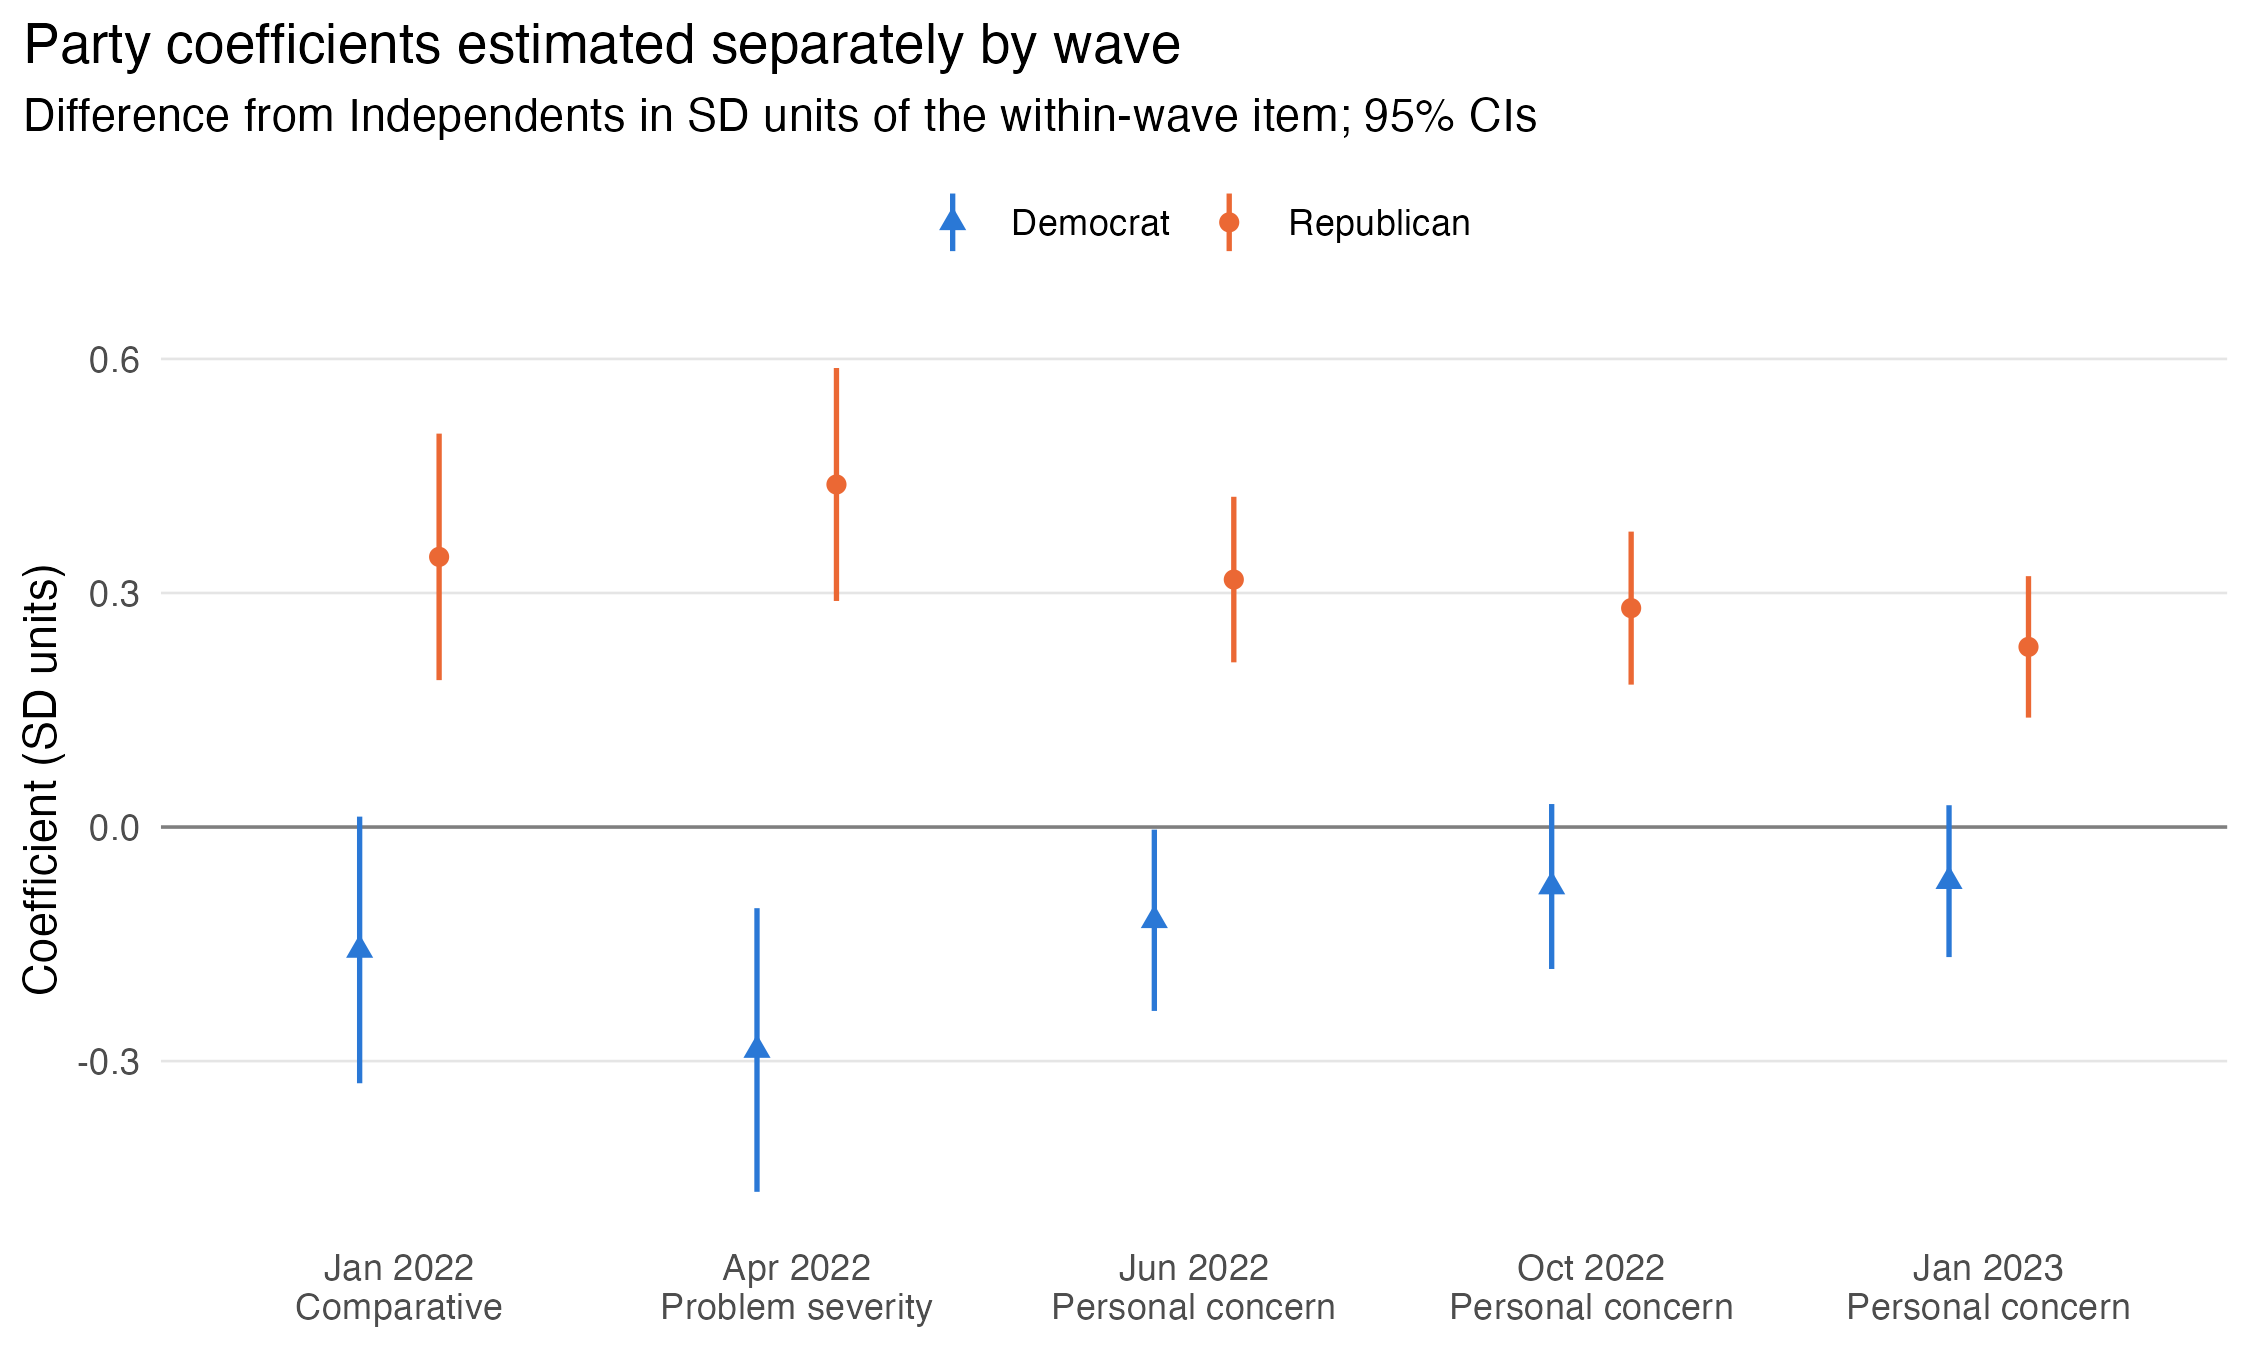
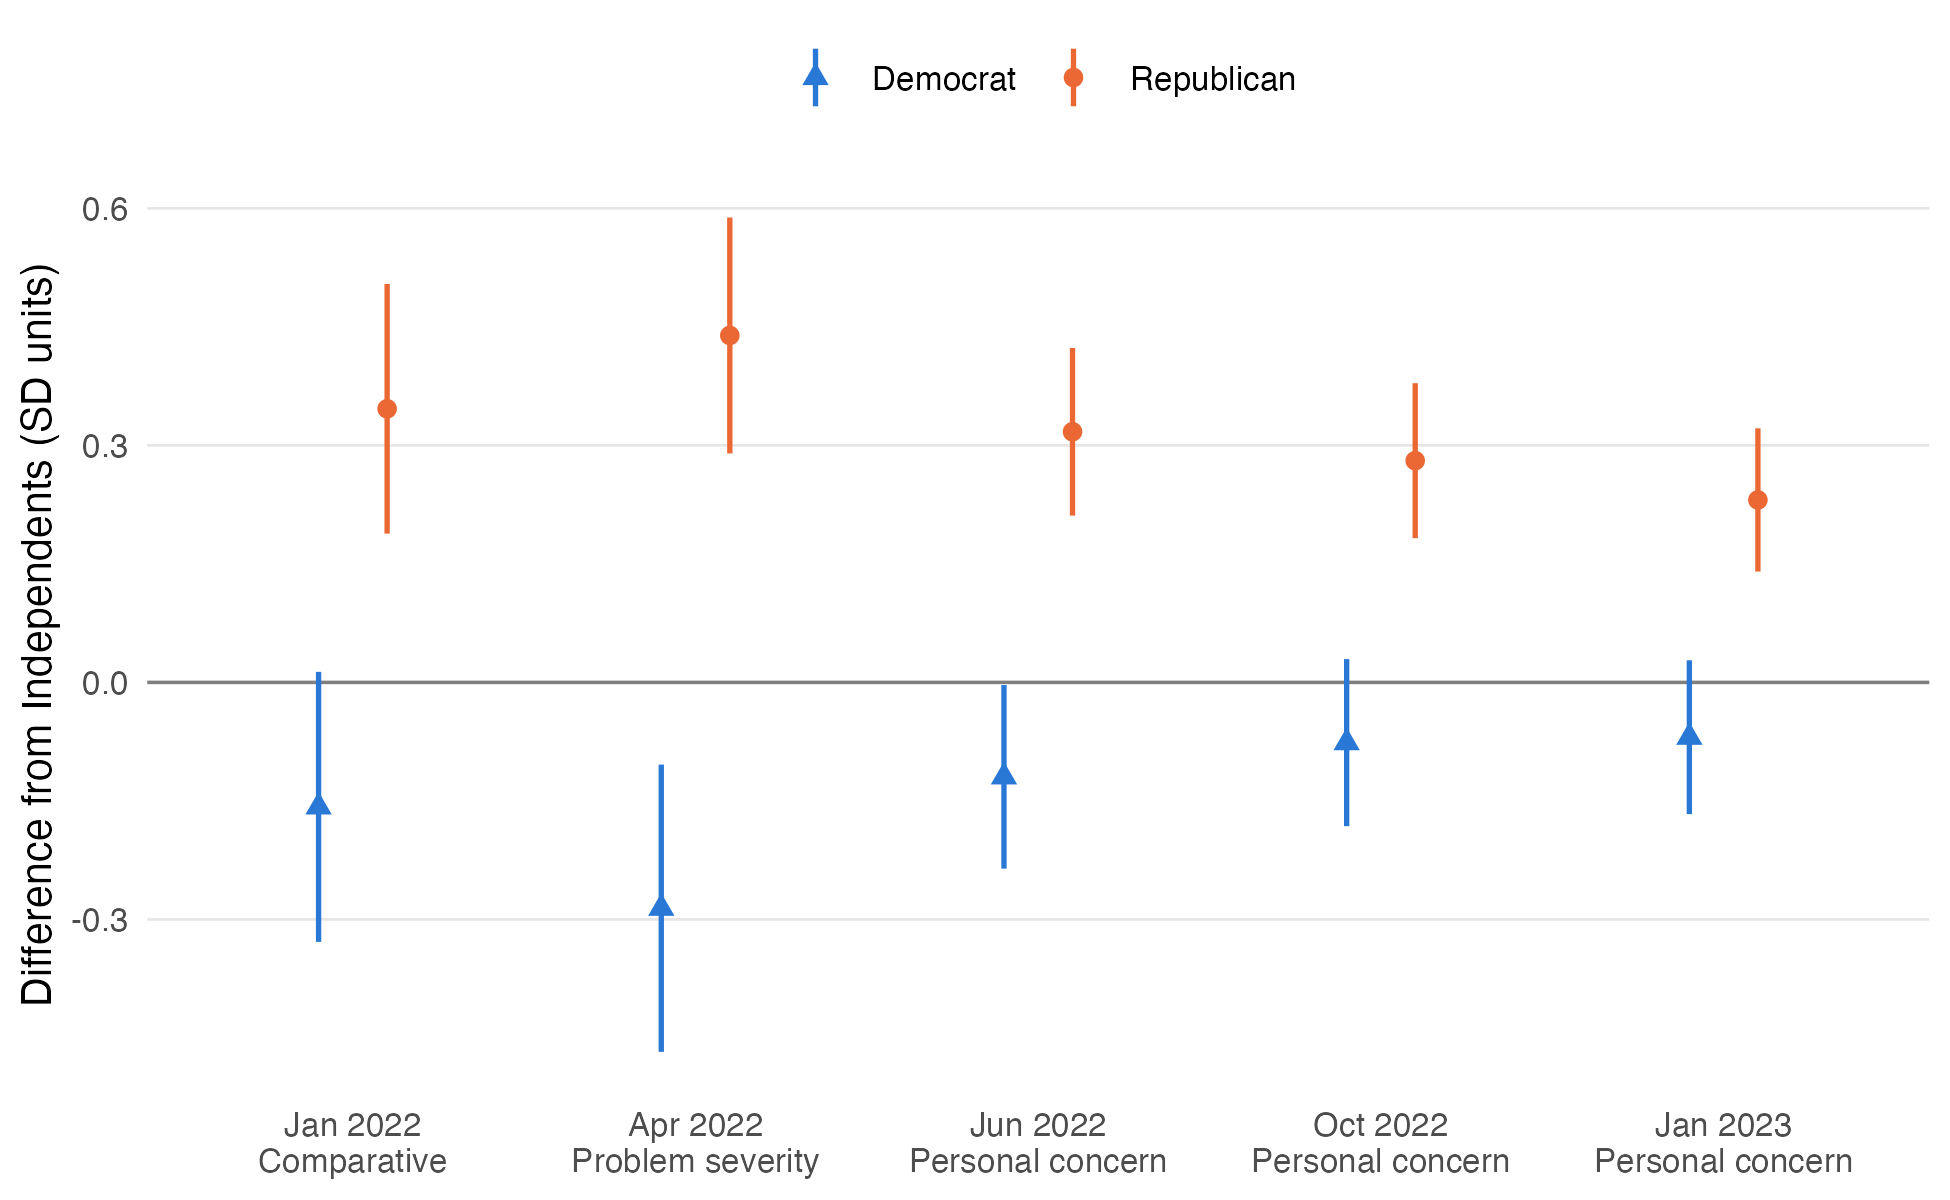
Regenerate outputs: LaTeX tables, PDF figures, session info

diff --git a/output/tables/table2_controls.tex b/output/tables/table2_controls.tex
@@ -1,0 +1,53 @@
+\begin{table}
+\centering
+\begin{talltblr}[         %% tabularray outer open
+caption={Demographic and Ideological Predictors of Price Concern},
+note{}={Reference categories: ages 18-29, male, H.S. graduate or less, income less than \$30,000, very conservative. Party indicators and wave fixed effects included. Standard errors clustered by respondent. * p < .10. ** p < .05. *** p < .01.},
+]                     %% tabularray outer close
+{                     %% tabularray inner open
+colspec={Q[]Q[]Q[]},
+hline{2}={1-3}{solid, black, 0.05em},
+hline{1}={1-3}{solid, black, 0.08em},
+hline{38}={1-3}{solid, black, 0.08em},
+column{2-3}={}{halign=c},
+column{1}={}{halign=l},
+}                     %% tabularray inner close
+& Model 2 & Model 3 \\
+30-49 & \num{0.214}*** & \num{0.204}*** \\
+& (\num{0.053}) & (\num{0.054}) \\
+50-64 & \num{0.276}*** & \num{0.252}*** \\
+& (\num{0.054}) & (\num{0.057}) \\
+65+ & \num{0.291}*** & \num{0.265}*** \\
+& (\num{0.052}) & (\num{0.054}) \\
+Female & \num{0.111}*** & \num{0.118}*** \\
+& (\num{0.027}) & (\num{0.027}) \\
+College graduate+ & \num{-0.072}** & \num{-0.052} \\
+& (\num{0.035}) & (\num{0.035}) \\
+Some College & \num{0.125}*** & \num{0.123}*** \\
+& (\num{0.034}) & (\num{0.034}) \\
+\$30,000 to less than \$40,000 & \num{0.105}** & \num{0.082} \\
+& (\num{0.052}) & (\num{0.053}) \\
+\$40,000 to less than \$50,000 & \num{0.103}* & \num{0.103}* \\
+& (\num{0.056}) & (\num{0.056}) \\
+\$50,000 to less than \$60,000 & \num{0.061} & \num{0.059} \\
+& (\num{0.055}) & (\num{0.056}) \\
+\$60,000 to less than \$70,000 & \num{0.035} & \num{0.036} \\
+& (\num{0.055}) & (\num{0.056}) \\
+\$70,000 to less than \$80,000 & \num{0.127}** & \num{0.127}** \\
+& (\num{0.050}) & (\num{0.050}) \\
+\$80,000 to less than \$90,000 & \num{0.038} & \num{0.040} \\
+& (\num{0.057}) & (\num{0.057}) \\
+\$90,000 to less than \$100,000 & \num{0.033} & \num{0.026} \\
+& (\num{0.054}) & (\num{0.055}) \\
+\$100,000 or more & \num{-0.152}*** & \num{-0.151}*** \\
+& (\num{0.047}) & (\num{0.048}) \\
+Conservative &  & \num{-0.043} \\
+&  & (\num{0.040}) \\
+Moderate &  & \num{-0.095}** \\
+&  & (\num{0.046}) \\
+Liberal &  & \num{-0.282}*** \\
+&  & (\num{0.061}) \\
+Very liberal &  & \num{-0.272}*** \\
+&  & (\num{0.077}) \\
+\end{talltblr}
+\end{table}

diff --git a/output/tables/tableA2_items.tex b/output/tables/tableA2_items.tex
@@ -1,0 +1,20 @@
+\begin{table}
+\centering
+\begin{talltblr}[         %% tabularray outer open
+caption={Table A2. Price Items by Wave},
+note{}={Source: Pew Research Center ATP questionnaires and toplines.},
+]                     %% tabularray outer close
+{                     %% tabularray inner open
+colspec={Q[]Q[]Q[]Q[]Q[]Q[]},
+hline{2}={1-6}{solid, black, 0.05em},
+hline{1}={1-6}{solid, black, 0.08em},
+hline{7}={1-6}{solid, black, 0.08em},
+}                     %% tabularray inner close
+Wave & Field dates & Variable & Item type & Asked of & Question wording \\
+W101 & Jan. 10-17, 2022 & ECONLIST\_PRCG\_W101 & Comparative & Form 2 only (XFORM = 2) & Thinking about some areas of the U.S. economy, how does each of the following compare to one year ago? Prices for food and consumer goods. (1 = A lot better than a year ago ... 5 = A lot worse than a year ago) \\
+W107 & Apr. 25-May 1, 2022 & NATPROBS\_INFL\_W107 & Problem severity & Form 1 only (XFORM = 1) & How much of a problem do you think each of the following are in the country today? Inflation. (1 = A very big problem ... 4 = Not a problem at all) \\
+W110 & Jun. 27-Jul. 4, 2022 & ECONCONC\_INFL\_W110 & Personal concern & All respondents & How concerned, if at all, are you personally about each of the following economic issues in the country today? Rising prices for food and consumer goods. (1 = Very concerned ... 4 = Not at all concerned) \\
+W116 & Oct. 10-16, 2022 & ECONCONC\_PRICE\_W116 & Personal concern & All respondents & How concerned, if at all, are you personally about each of the following economic issues in the country today? The price of food and consumer goods. (1 = Very concerned ... 4 = Not at all concerned) \\
+W120 & Jan. 18-24, 2023 & ECONCONC\_PRICE\_W120 & Personal concern & All respondents & How concerned, if at all, are you personally about each of the following economic issues in the country today? The price of food and consumer goods. (1 = Very concerned ... 4 = Not at all concerned) \\
+\end{talltblr}
+\end{table}

diff --git a/output/tables/table3_by_wave.tex b/output/tables/table3_by_wave.tex
@@ -1,0 +1,20 @@
+\begin{table}
+\centering
+\begin{talltblr}[         %% tabularray outer open
+caption={Table 3. Partisan Gaps in Price Concern, Estimated Separately by Wave},
+note{}={Note. Each row is a separate survey-weighted regression of the within-wave standardized item on party (Independents as reference). 'Controls' adds age, gender, education and income. Wald test that the party gaps are equal across waves: F = 3.68 (df = 8), p < .001. Test that they are equal across item types: F = 5.98 (df = 4), p < .001. * p < .10. ** p < .05. *** p < .01.},
+]                     %% tabularray outer close
+{                     %% tabularray inner open
+colspec={Q[]Q[]Q[]Q[]Q[]Q[]Q[]Q[]Q[]},
+hline{2}={1-9}{solid, black, 0.05em},
+hline{1}={1-9}{solid, black, 0.08em},
+hline{7}={1-9}{solid, black, 0.08em},
+}                     %% tabularray inner close
+Wave & Item type & Republican & Democrat & R - D & Republican (controls) & Democrat (controls) & R - D (controls) & N \\
+W101 (Jan. 10-17, 2022) & Comparative & 0.346*** (0.081) & -0.158* (0.087) & 0.504*** (0.075) & 0.287*** (0.088) & -0.123 (0.088) & 0.410*** (0.078) & 2,261 \\
+W107 (Apr. 25-May 1, 2022) & Problem severity & 0.439*** (0.076) & -0.286*** (0.093) & 0.725*** (0.072) & 0.468*** (0.078) & -0.248*** (0.094) & 0.716*** (0.076) & 2,219 \\
+W110 (Jun. 27-Jul. 4, 2022) & Personal concern & 0.317*** (0.054) & -0.119** (0.059) & 0.437*** (0.048) & 0.292*** (0.054) & -0.149** (0.059) & 0.441*** (0.050) & 5,311 \\
+W116 (Oct. 10-16, 2022) & Personal concern & 0.281*** (0.050) & -0.076 (0.054) & 0.357*** (0.043) & 0.235*** (0.049) & -0.111** (0.054) & 0.347*** (0.044) & 4,446 \\
+W120 (Jan. 18-24, 2023) & Personal concern & 0.231*** (0.046) & -0.069 (0.050) & 0.300*** (0.044) & 0.186*** (0.046) & -0.111** (0.049) & 0.297*** (0.045) & 4,487 \\
+\end{talltblr}
+\end{table}

diff --git a/output/tables/table4_original_scales.tex b/output/tables/table4_original_scales.tex
@@ -1,0 +1,20 @@
+\begin{table}
+\centering
+\begin{talltblr}[         %% tabularray outer open
+caption={Table 4. Partisan Gaps on the Original Response Scales},
+note{}={Note. Scale-point columns: survey-weighted OLS of the recoded item (higher = more concern) on party. Top-category columns: linear probability models for choosing the most-concerned response ('a lot worse', 'a very big problem' or 'very concerned'); multiply by 100 for percentage points. Independents are the reference. * p < .10. ** p < .05. *** p < .01.},
+]                     %% tabularray outer close
+{                     %% tabularray inner open
+colspec={Q[]Q[]Q[]Q[]Q[]Q[]Q[]},
+hline{2}={1-7}{solid, black, 0.05em},
+hline{1}={1-7}{solid, black, 0.08em},
+hline{7}={1-7}{solid, black, 0.08em},
+}                     %% tabularray inner close
+Wave & Scale & Republican (scale points) & Democrat (scale points) & Independents in top category (\%) & Republican (top category, share) & Democrat (top category, share) \\
+W101 & 1-5 & 0.273*** (0.064) & -0.124* (0.069) & 58.1 & 0.193*** (0.037) & -0.079** (0.037) \\
+W107 & 1-4 & 0.257*** (0.045) & -0.167*** (0.054) & 69.2 & 0.184*** (0.031) & -0.141*** (0.036) \\
+W110 & 1-4 & 0.167*** (0.028) & -0.063** (0.031) & 73.9 & 0.120*** (0.020) & -0.075*** (0.022) \\
+W116 & 1-4 & 0.160*** (0.028) & -0.043 (0.031) & 71.8 & 0.109*** (0.020) & -0.054** (0.021) \\
+W120 & 1-4 & 0.127*** (0.025) & -0.038 (0.027) & 73.6 & 0.090*** (0.019) & -0.040** (0.020) \\
+\end{talltblr}
+\end{table}

diff --git a/output/tables/table5_leaners.tex b/output/tables/table5_leaners.tex
@@ -1,0 +1,32 @@
+\begin{table}
+\centering
+\begin{talltblr}[         %% tabularray outer open
+caption={Partisan Gaps with Independent Leaners Grouped with Their Party},
+note{}={Reference: Independents who do not lean to either party. Standard errors clustered by respondent. * p < .10. ** p < .05. *** p < .01.},
+]                     %% tabularray outer close
+{                     %% tabularray inner open
+colspec={Q[]Q[]Q[]Q[]Q[]},
+hline{2}={1-5}{solid, black, 0.05em},
+hline{14}={1-5}{solid, black, 0.05em},
+hline{1}={1-5}{solid, black, 0.08em},
+hline{16}={1-5}{solid, black, 0.08em},
+column{2-5}={}{halign=c},
+column{1}={}{halign=l},
+}                     %% tabularray inner close
+& Model 1 & Model 2 & Model 3 & Model 2, five categories \\
+Republican incl. leaners & \num{0.167}* & \num{0.246}** & \num{0.181}* &  \\
+& (\num{0.092}) & (\num{0.101}) & (\num{0.103}) &  \\
+Democrat incl. leaners & \num{-0.247}*** & \num{-0.153} & \num{-0.147} &  \\
+& (\num{0.092}) & (\num{0.101}) & (\num{0.103}) &  \\
+Republican &  &  &  & \num{0.271}*** \\
+&  &  &  & (\num{0.101}) \\
+Lean Republican &  &  &  & \num{0.187}* \\
+&  &  &  & (\num{0.104}) \\
+Lean Democrat &  &  &  & \num{-0.172}* \\
+&  &  &  & (\num{0.104}) \\
+Democrat &  &  &  & \num{-0.147} \\
+&  &  &  & (\num{0.102}) \\
+Num.Obs. & \num{18724} & \num{17784} & \num{17589} & \num{17784} \\
+Republican - Democrat (with leaners) & 0.415*** (0.025) & 0.399*** (0.025) & 0.327*** (0.035) &  \\
+\end{talltblr}
+\end{table}

diff --git a/output/tables/table1_party.tex b/output/tables/table1_party.tex
@@ -1,0 +1,29 @@
+\begin{table}
+\centering
+\begin{talltblr}[         %% tabularray outer open
+caption={Partisan Gaps in Price Concern: Survey-Weighted OLS Estimates},
+note{}={Outcome: price-concern item standardized within wave. Independents are the reference. Standard errors clustered by respondent in parentheses. * p < .10. ** p < .05. *** p < .01.},
+]                     %% tabularray outer close
+{                     %% tabularray inner open
+colspec={Q[]Q[]Q[]Q[]},
+hline{2}={1-4}{solid, black, 0.05em},
+hline{1}={1-4}{solid, black, 0.08em},
+hline{14}={1-4}{solid, black, 0.08em},
+column{2-4}={}{halign=c},
+column{1}={}{halign=l},
+}                     %% tabularray inner close
+& Model 1 & Model 2 & Model 3 \\
+Republican & \num{0.304}*** & \num{0.272}*** & \num{0.212}*** \\
+& (\num{0.030}) & (\num{0.030}) & (\num{0.034}) \\
+Democrat & \num{-0.122}*** & \num{-0.141}*** & \num{-0.077}** \\
+& (\num{0.034}) & (\num{0.034}) & (\num{0.038}) \\
+Constant & \num{-0.099}** & \num{-0.390}*** & \num{-0.269}*** \\
+& (\num{0.041}) & (\num{0.086}) & (\num{0.096}) \\
+Republican - Democrat & 0.427*** (0.028) & 0.413*** (0.028) & 0.289*** (0.040) \\
+Wave fixed effects & Yes & Yes & Yes \\
+Demographic controls & No & Yes & Yes \\
+Ideology control & No & No & Yes \\
+Observations (respondent-waves) & 18,724 & 17,784 & 17,589 \\
+Unique respondents & 9,499 & 9,066 & 8,995 \\
+\end{talltblr}
+\end{table}

diff --git a/output/tables/tableA1_robustness.tex b/output/tables/tableA1_robustness.tex
@@ -1,0 +1,23 @@
+\begin{table}
+\centering
+\begin{talltblr}[         %% tabularray outer open
+caption={Robustness of the Partisan Gaps (Model 2 Specification)},
+note{}={Column 2 standardizes within wave using survey weights. Column 3 keeps W110, W116 and W120. Column 4 reproduces the submitted paper's standard errors. * p < .10. ** p < .05. *** p < .01.},
+]                     %% tabularray outer close
+{                     %% tabularray inner open
+colspec={Q[]Q[]Q[]Q[]Q[]},
+hline{2}={1-5}{solid, black, 0.05em},
+hline{6}={1-5}{solid, black, 0.05em},
+hline{1}={1-5}{solid, black, 0.08em},
+hline{7}={1-5}{solid, black, 0.08em},
+column{2-5}={}{halign=c},
+column{1}={}{halign=l},
+}                     %% tabularray inner close
+& Model 2 (main) & Weighted standardization & Personal-concern waves only & Model 2, unclustered SEs \\
+Republican & \num{0.272}*** & \num{0.260}*** & \num{0.239}*** & \num{0.272}*** \\
+& (\num{0.030}) & (\num{0.029}) & (\num{0.034}) & (\num{0.026}) \\
+Democrat & \num{-0.141}*** & \num{-0.135}*** & \num{-0.124}*** & \num{-0.141}*** \\
+& (\num{0.034}) & (\num{0.033}) & (\num{0.037}) & (\num{0.029}) \\
+Num.Obs. & \num{17784} & \num{17784} & \num{13514} & \num{17784} \\
+\end{talltblr}
+\end{table}
